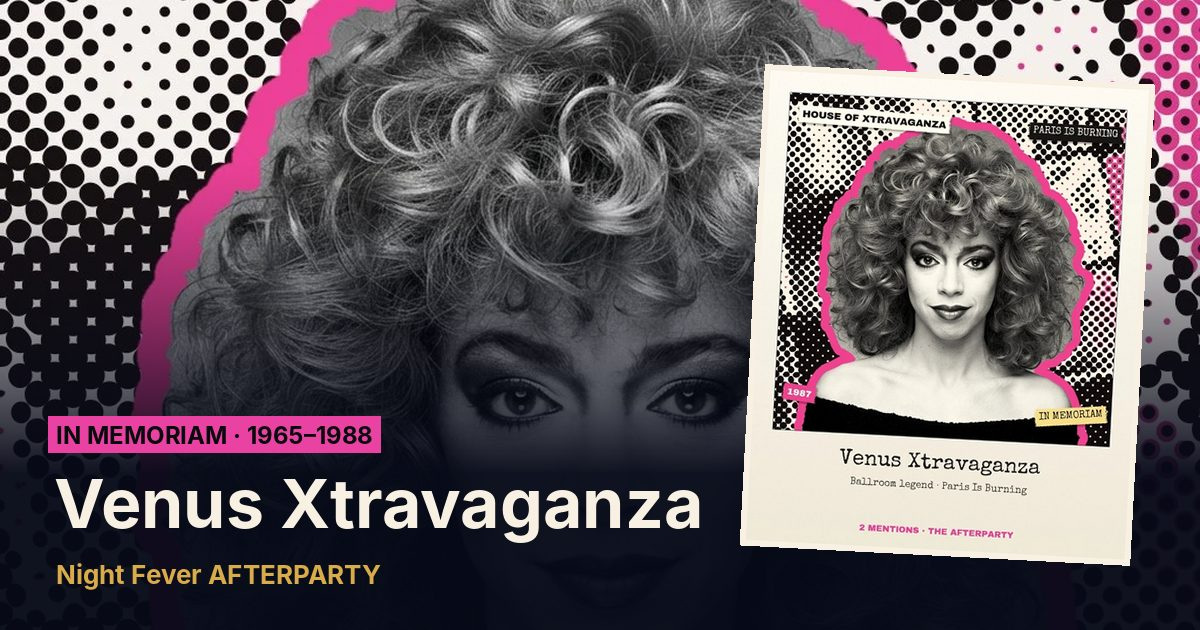
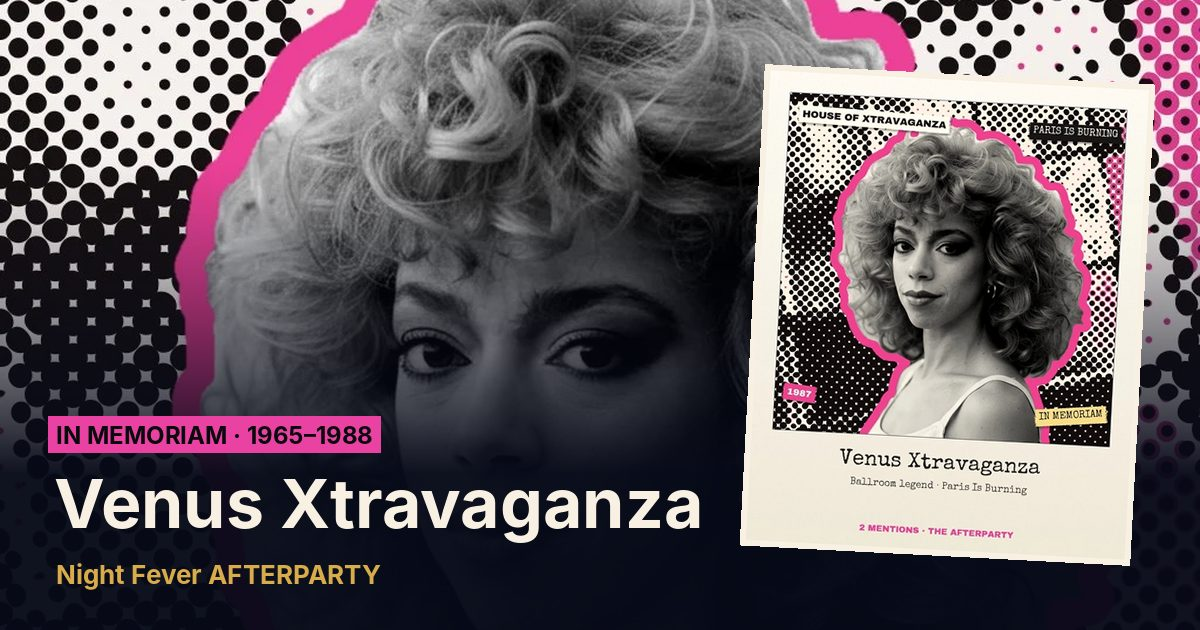
Venus Xtravaganza: polaroid B (Lisa's pick)
Claude-Session: https://claude.ai/code/session_0192FesrRC8W7yiuXJ32r3NS

Changed region(s): [[0.0925, 0.0, 0.925, 0.7238]]

diff --git a/src/data/person-portraits.ts b/src/data/person-portraits.ts
@@ -1117,7 +1117,7 @@ export const PERSON_PORTRAITS: Record<string, PersonPortrait> = {
   "paul-morrissey": { photo: paulMorrisseyPhoto, polaroid: paulMorrisseyPolaroid, focus: "30%", credit: "Illustration made with Gemini from the 1967 public-domain photo by James Kavallines, not a photo" },
   // Lisa: "house of xtravaganza needs a background header picture and a polaroid". No faces: an empty Harlem ballroom and the judges' table.
   "house-of-xtravaganza": { photo: houseOfXtravaganzaPhoto, phone: houseOfXtravaganzaPhotoPhone, polaroid: houseOfXtravaganzaPolaroid, focus: "50%", credit: "Header and polaroid: a Harlem ballroom before a ball and the judges' trophies, drawn for the AFTERPARTY - no people shown" },
-  // Venus and David Ian: option A wired, Lisa picks A or B. Stephan: A only (three tries at a B failed).
+  // Venus: B (Lisa, 28 Nov 2026, "venus b"). David Ian: option A wired, Lisa picks A or B. Stephan: A only (three tries at a B failed).
   "venus-xtravaganza": { photo: venusXtravaganzaPhoto, polaroid: venusXtravaganzaPolaroid, focus: "30%", credit: "Illustration made with Gemini, not a photo" },
   "david-ian-xtravaganza": { photo: davidIanXtravaganzaPhoto, polaroid: davidIanXtravaganzaPolaroid, focus: "30%", credit: "Illustration made with Gemini, not a photo" },
   "stephan-lupino": { photo: stephanLupinoPhoto, polaroid: stephanLupinoPolaroid, focus: "30%", credit: "Illustration made with Gemini, not a photo" },
